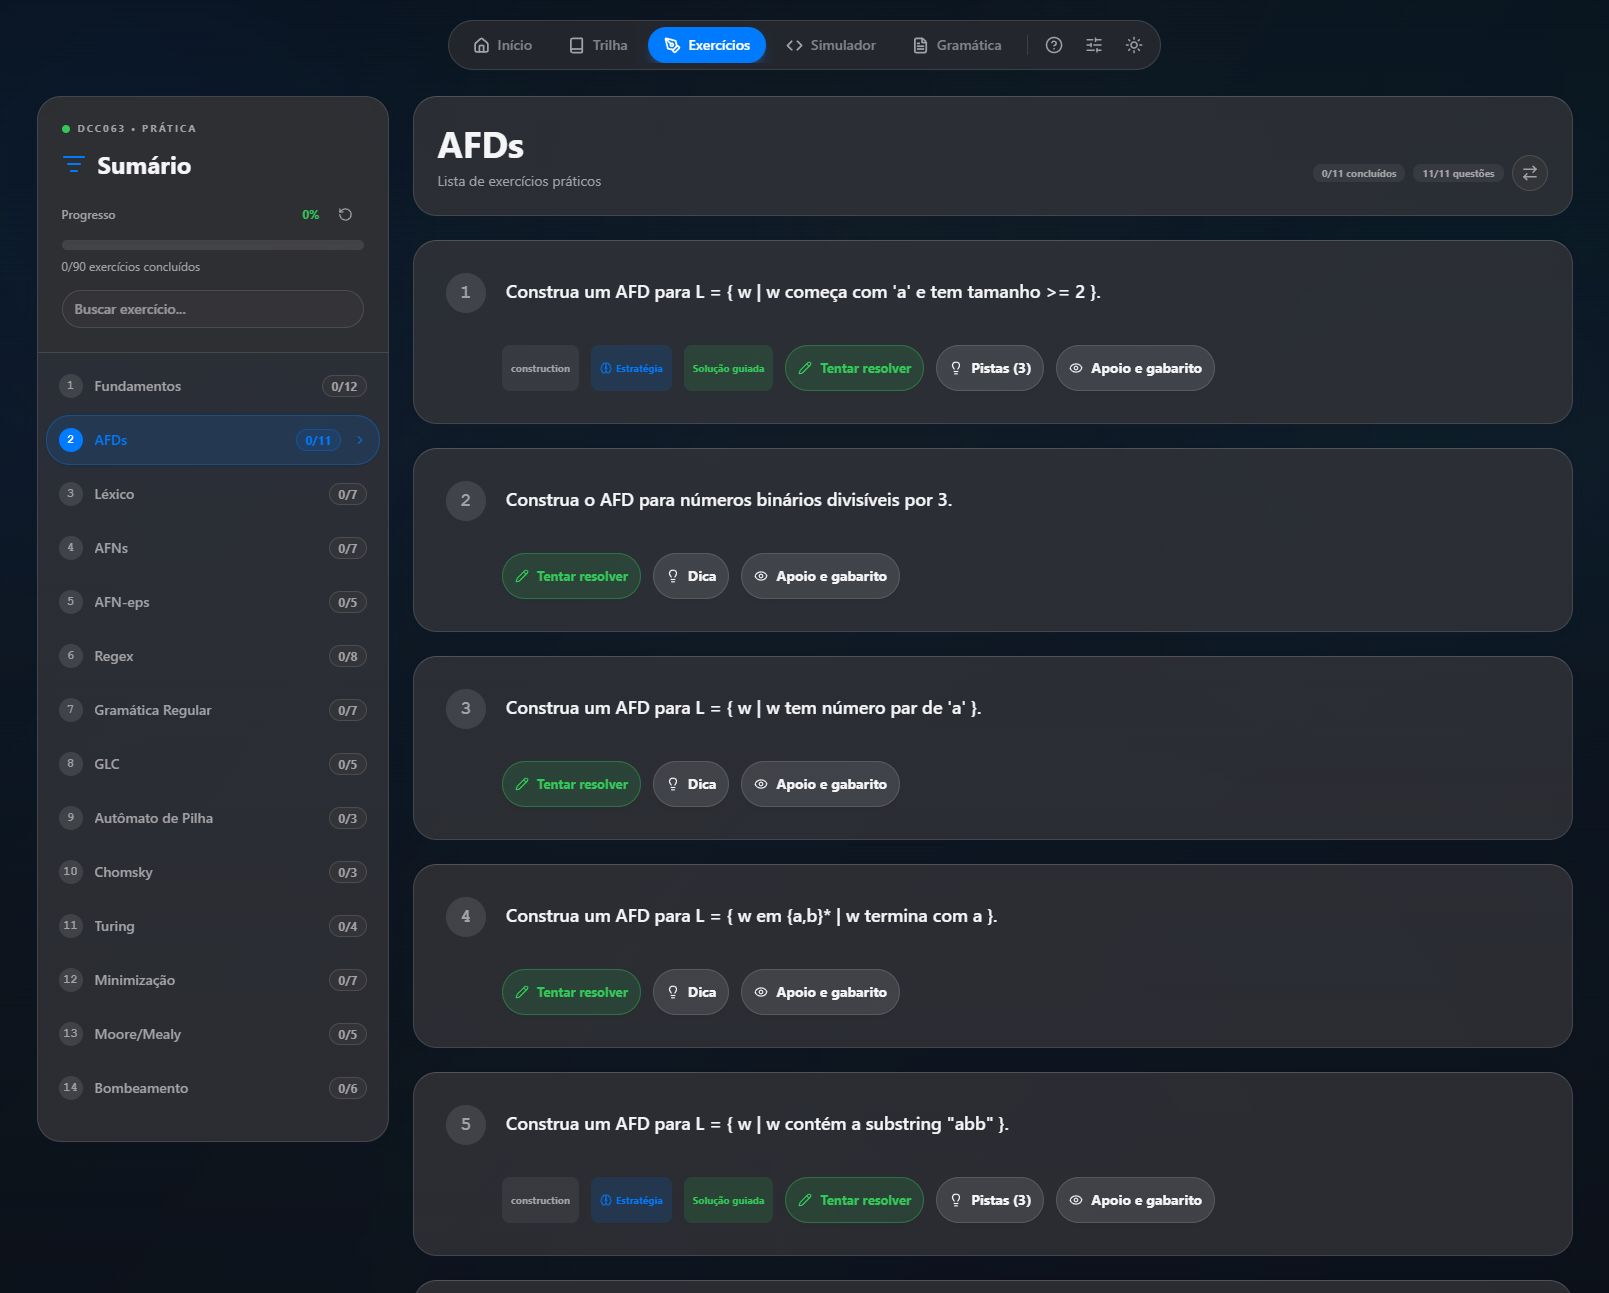
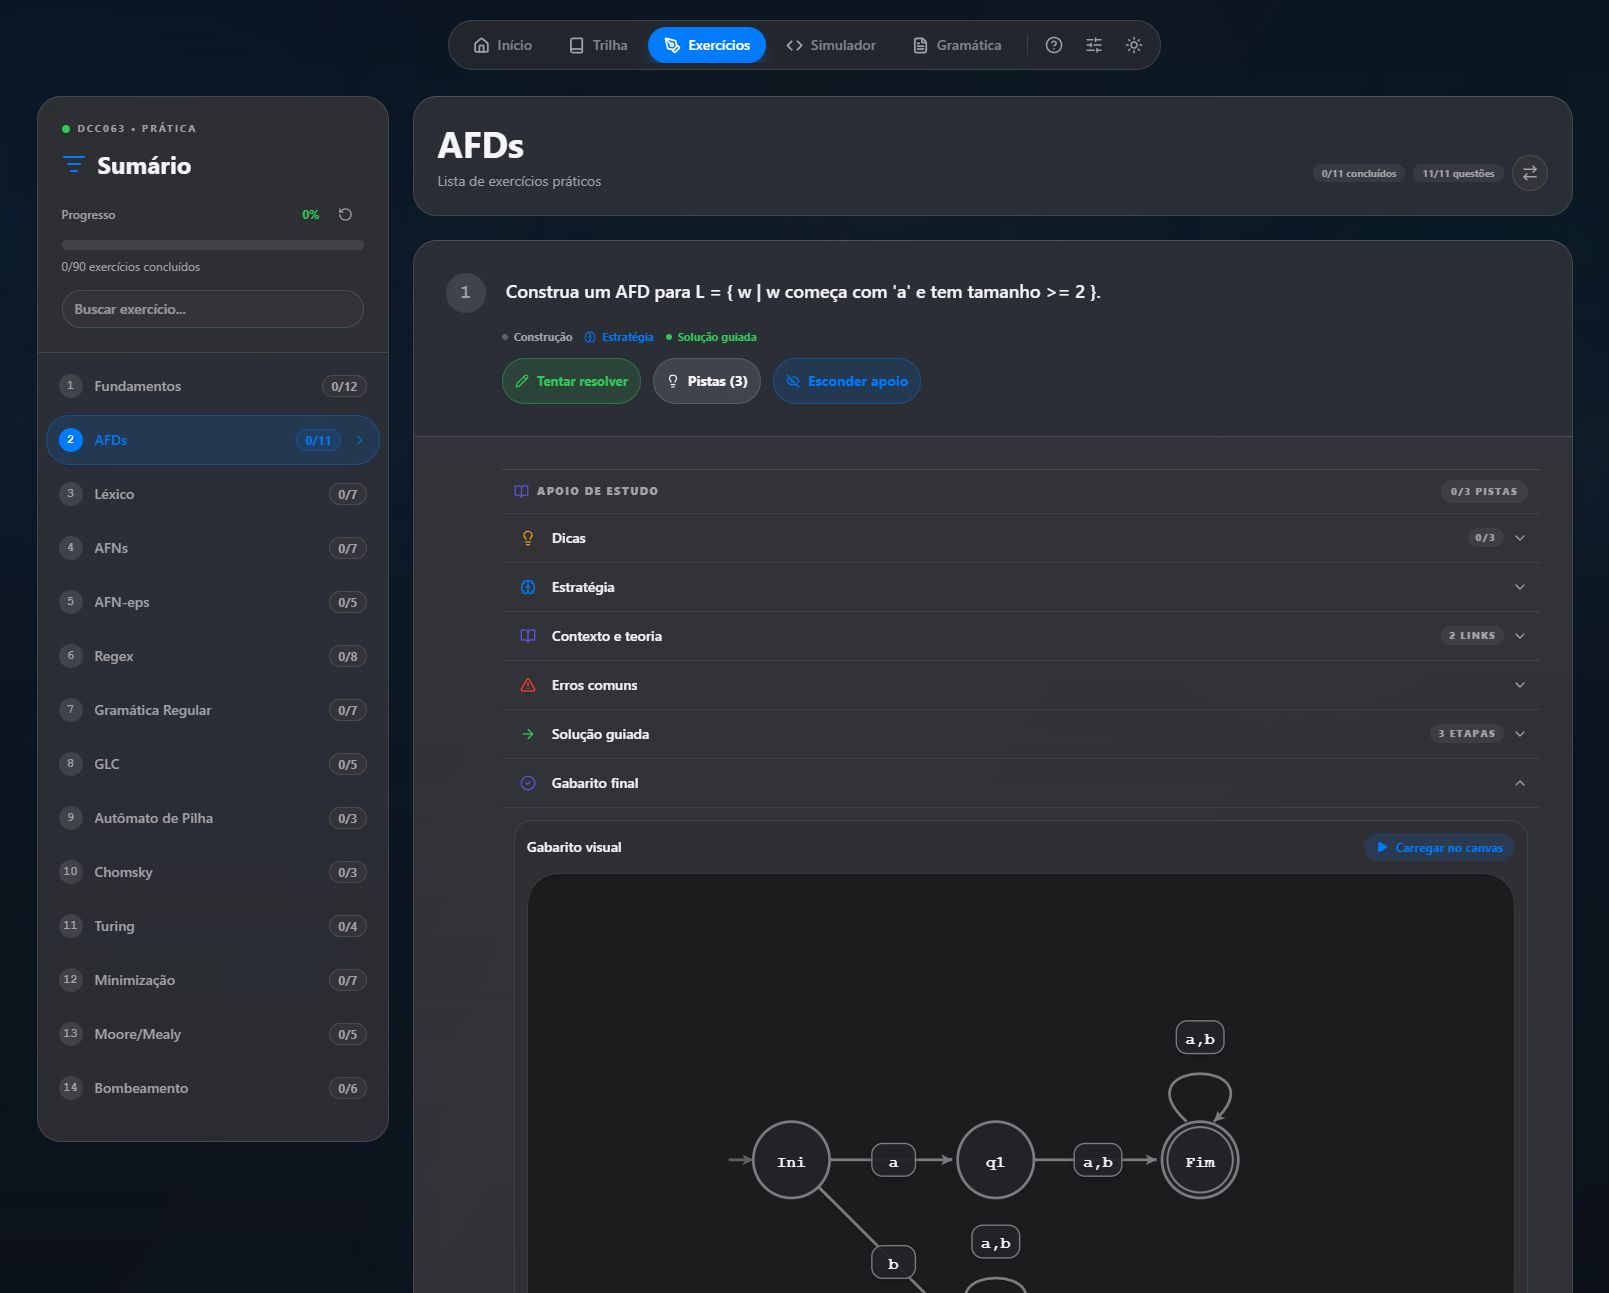
fix: clarify exercise search and screenshots
Why: students need clearer exercise metadata, predictable keyboard search, and README screenshots that show real capabilities.

What: translate and restyle exercise metadata, make Enter filter to category/list instead of opening modals, cover category search targets, and refresh exercise/grammar dark screenshots.

diff --git a/src/features/exercises/useExerciseSelection.test.tsx b/src/features/exercises/useExerciseSelection.test.tsx
@@ -96,6 +96,12 @@ describe('useExerciseSelection', () => {
 
         expect(result.current.filteredExercises).toHaveLength(0);
         expect(result.current.filteredCategories.map((category) => category.id)).toEqual(['er']);
+        expect(result.current.firstSearchResult).toMatchObject({
+            categoryId: 'er',
+            categoryLabel: 'Regex',
+            exerciseId: null,
+            question: 'Regex'
+        });
 
         act(() => {
             result.current.setSidebarOpen(true);
@@ -108,6 +114,27 @@ describe('useExerciseSelection', () => {
         expect(result.current.activeCategory).toBe('er');
         expect(result.current.isSidebarOpen).toBe(false);
         expect(result.current.exercises).toHaveLength(1);
+    });
+
+    it('usa Enter em alvo de categoria para abrir a lista completa da categoria', () => {
+        const { result } = renderHook(() => useExerciseSelection({
+            exerciseDatabase,
+            initialCategoryId: 'afd',
+            setLastCategory: vi.fn()
+        }));
+
+        act(() => {
+            result.current.setSearchQuery('regex');
+        });
+
+        act(() => {
+            result.current.navigateToFirstSearchResult();
+        });
+
+        expect(result.current.activeCategory).toBe('er');
+        expect(result.current.searchQuery).toBe('');
+        expect(result.current.filteredExercises.map((exercise) => exercise.id)).toEqual([2]);
+        expect(result.current.solvingExercise).toBeNull();
     });
 
     it('busca também em estratégia e metadados pedagógicos', () => {
@@ -141,7 +168,7 @@ describe('useExerciseSelection', () => {
         expect(result.current.filteredCategories.map((category) => category.id)).toContain('afd');
     });
 
-    it('expõe o destino do Enter e abre o primeiro exercício encontrado mesmo em outra categoria', () => {
+    it('expõe o alvo do Enter e filtra a categoria encontrada sem abrir modal', () => {
         const setLastCategory = vi.fn();
         const onSelectionChange = vi.fn();
         const { result } = renderHook(() => useExerciseSelection({
@@ -168,15 +195,15 @@ describe('useExerciseSelection', () => {
         });
 
         expect(result.current.activeCategory).toBe('er');
-        expect(result.current.solvingExercise).toBe(2);
-        expect(result.current.currentExercise?.id).toBe(2);
-        expect(result.current.solverMode).toBe('regex');
+        expect(result.current.solvingExercise).toBeNull();
+        expect(result.current.currentExercise).toBeNull();
+        expect(result.current.filteredExercises.map((exercise) => exercise.id)).toEqual([2]);
         expect(result.current.searchQuery).toBe('sufixo obrigatório');
         expect(setLastCategory).toHaveBeenCalledWith('er');
-        expect(onSelectionChange).toHaveBeenCalledWith('er', 2);
+        expect(onSelectionChange).toHaveBeenCalledWith('er', null);
     });
 
-    it('alterna o destino da busca com as setas antes de abrir o exercício', () => {
+    it('alterna o alvo da busca com as setas antes de filtrar a lista', () => {
         const { result } = renderHook(() => useExerciseSelection({
             exerciseDatabase,
             initialCategoryId: 'afd',
@@ -201,7 +228,8 @@ describe('useExerciseSelection', () => {
             result.current.navigateToFirstSearchResult();
         });
 
-        expect(result.current.solvingExercise).toBe(5);
+        expect(result.current.solvingExercise).toBeNull();
+        expect(result.current.filteredExercises.map((exercise) => exercise.id)).toEqual([1, 5]);
         expect(result.current.searchQuery).toBe('construa afd');
     });
 

diff --git a/src/features/exercises/ExerciseList.tsx b/src/features/exercises/ExerciseList.tsx
@@ -14,6 +14,17 @@ import type { Exercicio } from '../../types';
 import type { ConverterData, ExerciseSolverStartOptions } from './types';
 import { ExerciseSupportPanel } from './ExerciseSupportPanel';
 
+const exercisePatternLabels: Record<string, string> = {
+    construction: 'Construção',
+    proof: 'Prova',
+    conversion: 'Conversão',
+    simulation: 'Simulação',
+    analysis: 'Análise',
+    design: 'Projeto'
+};
+
+const getExercisePatternLabel = (pattern: string) => exercisePatternLabels[pattern] ?? pattern;
+
 interface ExerciseListProps {
     activeCategory: string;
     activeCategoryLabel: string;
@@ -126,23 +137,28 @@ export const ExerciseList: React.FC<ExerciseListProps> = ({
                             <h3 className="text-lg font-medium text-primary leading-relaxed pt-1">{exercise.pergunta}</h3>
                         </div>
 
-                        <div className="flex flex-wrap gap-3 mt-6 sm:mt-8 ml-0 sm:ml-14">
+                        <div className="mt-4 flex flex-wrap items-center gap-x-3 gap-y-1.5 text-[11px] font-bold text-secondary sm:ml-14">
                             {exercise.metadata && (
-                                <span className="badge border-default bg-surface-muted text-secondary">
-                                    {exercise.metadata.pattern}
+                                <span className="inline-flex items-center gap-1.5">
+                                    <span className="h-1.5 w-1.5 rounded-full bg-current opacity-45" />
+                                    {getExercisePatternLabel(exercise.metadata.pattern)}
                                 </span>
                             )}
                             {exercise.estrategia && (
-                                <span className="badge gap-2 border-status-info bg-status-info-soft text-status-info">
+                                <span className="inline-flex items-center gap-1.5 text-status-info">
                                     <Brain size={12} />
                                     Estratégia
                                 </span>
                             )}
                             {exercise.guidedSolution && exercise.guidedSolution.length > 0 && (
-                                <span className="badge border-status-success bg-status-success-soft text-status-success">
+                                <span className="inline-flex items-center gap-1.5 text-status-success">
+                                    <span className="h-1.5 w-1.5 rounded-full bg-current" />
                                     Solução guiada
                                 </span>
                             )}
+                        </div>
+
+                        <div className="mt-3 flex flex-wrap gap-3 sm:ml-14">
                             <button
                                 onClick={() => onStartSolving(exercise.id)}
                                 className={`btn-icon px-4 py-2.5 rounded-xl text-[13px] font-bold gap-2 border transition-all

diff --git a/src/features/exercises/ExercisesSidebar.test.tsx b/src/features/exercises/ExercisesSidebar.test.tsx
@@ -5,7 +5,7 @@ import { describe, expect, it, vi } from 'vitest';
 import { ExercisesSidebar } from './ExercisesSidebar';
 
 describe('ExercisesSidebar', () => {
-    it('mostra o destino da busca e confirma com Enter', () => {
+    it('mostra o alvo da busca e confirma o filtro com Enter', () => {
         const onSearchSubmit = vi.fn();
 
         render(
@@ -42,12 +42,13 @@ describe('ExercisesSidebar', () => {
             />
         );
 
-        const targetCopy = screen.getByText('abre: Exercício 2 · Regex');
+        const targetCopy = screen.getByText('filtra: Exercício 2 · Regex');
         expect(targetCopy).toBeInTheDocument();
         expect(targetCopy).toHaveClass('search-target-copy');
         expect(targetCopy.closest('.search-target-shell')).toBeInTheDocument();
         expect(screen.getByText('1/1')).toBeInTheDocument();
         expect(screen.getByRole('button', { name: /Regex/ })).toHaveClass('search-target-row');
+        expect(screen.getByText('alvo')).toBeInTheDocument();
 
         fireEvent.keyDown(screen.getByLabelText('Buscar exercício'), { key: 'Enter' });
 
@@ -90,5 +91,44 @@ describe('ExercisesSidebar', () => {
 
         expect(onMoveSearchResult).toHaveBeenNthCalledWith(1, 1);
         expect(onMoveSearchResult).toHaveBeenNthCalledWith(2, -1);
+    });
+
+    it('mostra categoria como alvo quando a busca bate no nome da categoria', () => {
+        render(
+            <ExercisesSidebar
+                sidebarId="exercicios-sidebar"
+                isSidebarOpen={false}
+                searchInputId="search-ex"
+                searchQuery="regex"
+                onSearchChange={vi.fn()}
+                onSearchSubmit={vi.fn()}
+                onMoveSearchResult={vi.fn()}
+                firstSearchResult={{
+                    categoryId: 'er',
+                    categoryLabel: 'Regex',
+                    exerciseId: null,
+                    question: 'Regex',
+                    resultCount: 1
+                }}
+                activeSearchResult={{
+                    categoryId: 'er',
+                    categoryLabel: 'Regex',
+                    exerciseId: null,
+                    question: 'Regex',
+                    resultCount: 1
+                }}
+                searchResultPosition={{ current: 1, total: 1 }}
+                progressPercent={20}
+                completedExercisesCount={2}
+                totalExercisesCount={10}
+                onResetExercises={vi.fn()}
+                items={[{ id: 'er', label: 'Regex', index: 5, total: 1, completed: 0 }]}
+                activeCategory="afd"
+                onSelectCategory={vi.fn()}
+            />
+        );
+
+        expect(screen.getByText('filtra: Regex')).toBeInTheDocument();
+        expect(screen.getByRole('button', { name: /Regex/ })).toHaveClass('search-target-row');
     });
 });

diff --git a/src/features/exercises/ExercisesSidebar.tsx b/src/features/exercises/ExercisesSidebar.tsx
@@ -56,8 +56,13 @@ export const ExercisesSidebar: React.FC<ExercisesSidebarProps> = ({
         ? `${searchResultPosition.current}/${searchResultPosition.total}`
         : '0';
     const searchTargetKey = visibleSearchResult
-        ? `${visibleSearchResult.categoryId}-${visibleSearchResult.exerciseId}-${searchResultPosition?.current ?? 0}`
+        ? `${visibleSearchResult.categoryId}-${visibleSearchResult.exerciseId ?? 'categoria'}-${searchResultPosition?.current ?? 0}`
         : `empty-${trimmedSearch}`;
+    const searchTargetLabel = visibleSearchResult
+        ? visibleSearchResult.exerciseId === null
+            ? `filtra: ${visibleSearchResult.categoryLabel}`
+            : `filtra: Exercício ${visibleSearchResult.exerciseId} · ${visibleSearchResult.categoryLabel}`
+        : 'Sem resultado para filtrar';
 
     return (
     <aside
@@ -152,9 +157,7 @@ export const ExercisesSidebar: React.FC<ExercisesSidebarProps> = ({
                                 Enter
                             </span>
                             <span className="search-target-copy min-w-0 flex-1 truncate font-medium text-secondary">
-                                {visibleSearchResult
-                                    ? `abre: Exercício ${visibleSearchResult.exerciseId} · ${visibleSearchResult.categoryLabel}`
-                                    : 'Sem destino para Enter'}
+                                {searchTargetLabel}
                             </span>
                             <span className="search-target-count flex h-6 flex-shrink-0 items-center rounded-lg border border-default bg-surface-1 px-2 font-mono font-bold text-secondary">
                                 {resultCountLabel}
@@ -208,7 +211,7 @@ export const ExercisesSidebar: React.FC<ExercisesSidebarProps> = ({
                             <span className="flex-1 truncate">{item.label}</span>
                             {isEnterTarget && (
                                 <span className="search-target-badge flex-shrink-0 rounded-full border border-ios-blue/25 bg-ios-blue/10 px-2 py-0.5 text-[0.65rem] font-black uppercase text-ios-blue">
-                                    Enter
+                                    alvo
                                 </span>
                             )}
                             <span className={`rounded-full border px-2 py-0.5 text-xs font-bold ${

diff --git a/src/features/exercises/useExerciseSelection.ts b/src/features/exercises/useExerciseSelection.ts
@@ -18,7 +18,7 @@ type ExerciseSearchIndex = Record<string, Map<number, string>>;
 export interface ExerciseSearchResultPreview {
     categoryId: string;
     categoryLabel: string;
-    exerciseId: number;
+    exerciseId: number | null;
     question: string;
     resultCount: number;
 }
@@ -192,6 +192,19 @@ export const useExerciseSelection = ({
         for (const category of exerciseCategories) {
             const categoryExercises = exerciseDatabase[category.id] ?? [];
             const categoryIndex = exerciseSearchIndex[category.id] ?? new Map<number, string>();
+            const categoryLabelMatches = searchTokens.every((token) =>
+                normalizeExerciseSearch(category.label).includes(token)
+            );
+
+            if (categoryLabelMatches) {
+                matches.push({
+                    categoryId: category.id,
+                    categoryLabel: category.label,
+                    exerciseId: null,
+                    question: category.label,
+                    resultCount: 0
+                });
+            }
 
             for (const exercise of categoryExercises) {
                 const searchText = categoryIndex.get(exercise.id) ?? buildExerciseSearchText(exercise);
@@ -273,9 +286,18 @@ export const useExerciseSelection = ({
     const navigateToFirstSearchResult = useCallback(() => {
         if (!activeSearchResult) return;
 
-        startSolvingInCategory(activeSearchResult.categoryId, activeSearchResult.exerciseId);
+        setActiveCategory(activeSearchResult.categoryId);
+        setLastCategory(activeSearchResult.categoryId);
+        setSolvingExercise(null);
+        setUserAutomaton(null);
+        setSavedAttemptAutomaton(null);
+        setIsViewingAnswerAutomaton(false);
+        setShowExpected(false);
+        if (activeSearchResult.exerciseId === null) {
+            setSearchQuery('');
+        }
         setSidebarOpen(false);
-    }, [activeSearchResult, startSolvingInCategory]);
+    }, [activeSearchResult, setLastCategory]);
     const moveSearchResultSelection = useCallback((delta: number) => {
         if (searchResults.length === 0) return;
 

diff --git a/src/features/exercises/ExerciseList.test.tsx b/src/features/exercises/ExerciseList.test.tsx
@@ -71,7 +71,7 @@ describe('ExerciseList', () => {
         fireEvent.click(screen.getByRole('button', { name: /Pistas \(2\)/i }));
         fireEvent.click(screen.getByRole('button', { name: /Apoio e gabarito/i }));
 
-        expect(screen.getByText('construction')).toBeInTheDocument();
+        expect(screen.getByText('Construção')).toBeInTheDocument();
         expect(screen.getByText('Estratégia')).toBeInTheDocument();
         expect(screen.getByText('Solução guiada')).toBeInTheDocument();
         expect(screen.getByText(/Construa um AFD/i).closest('[data-deferred-render="card"]')).not.toBeNull();
